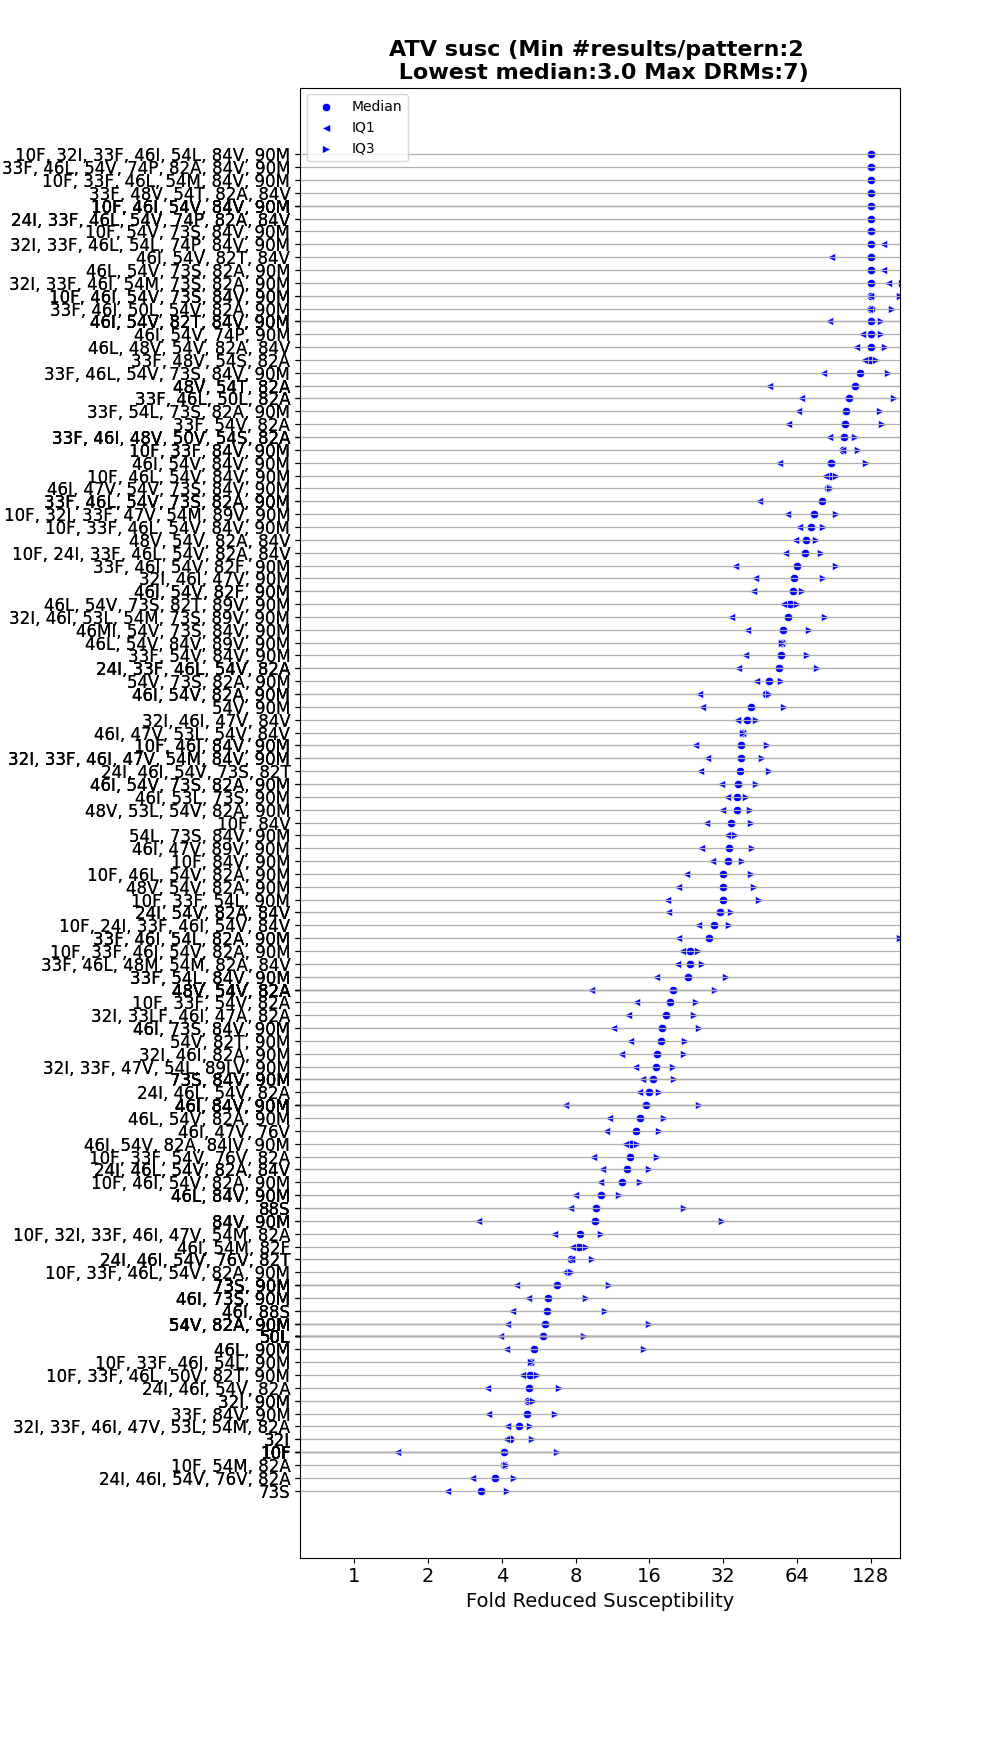
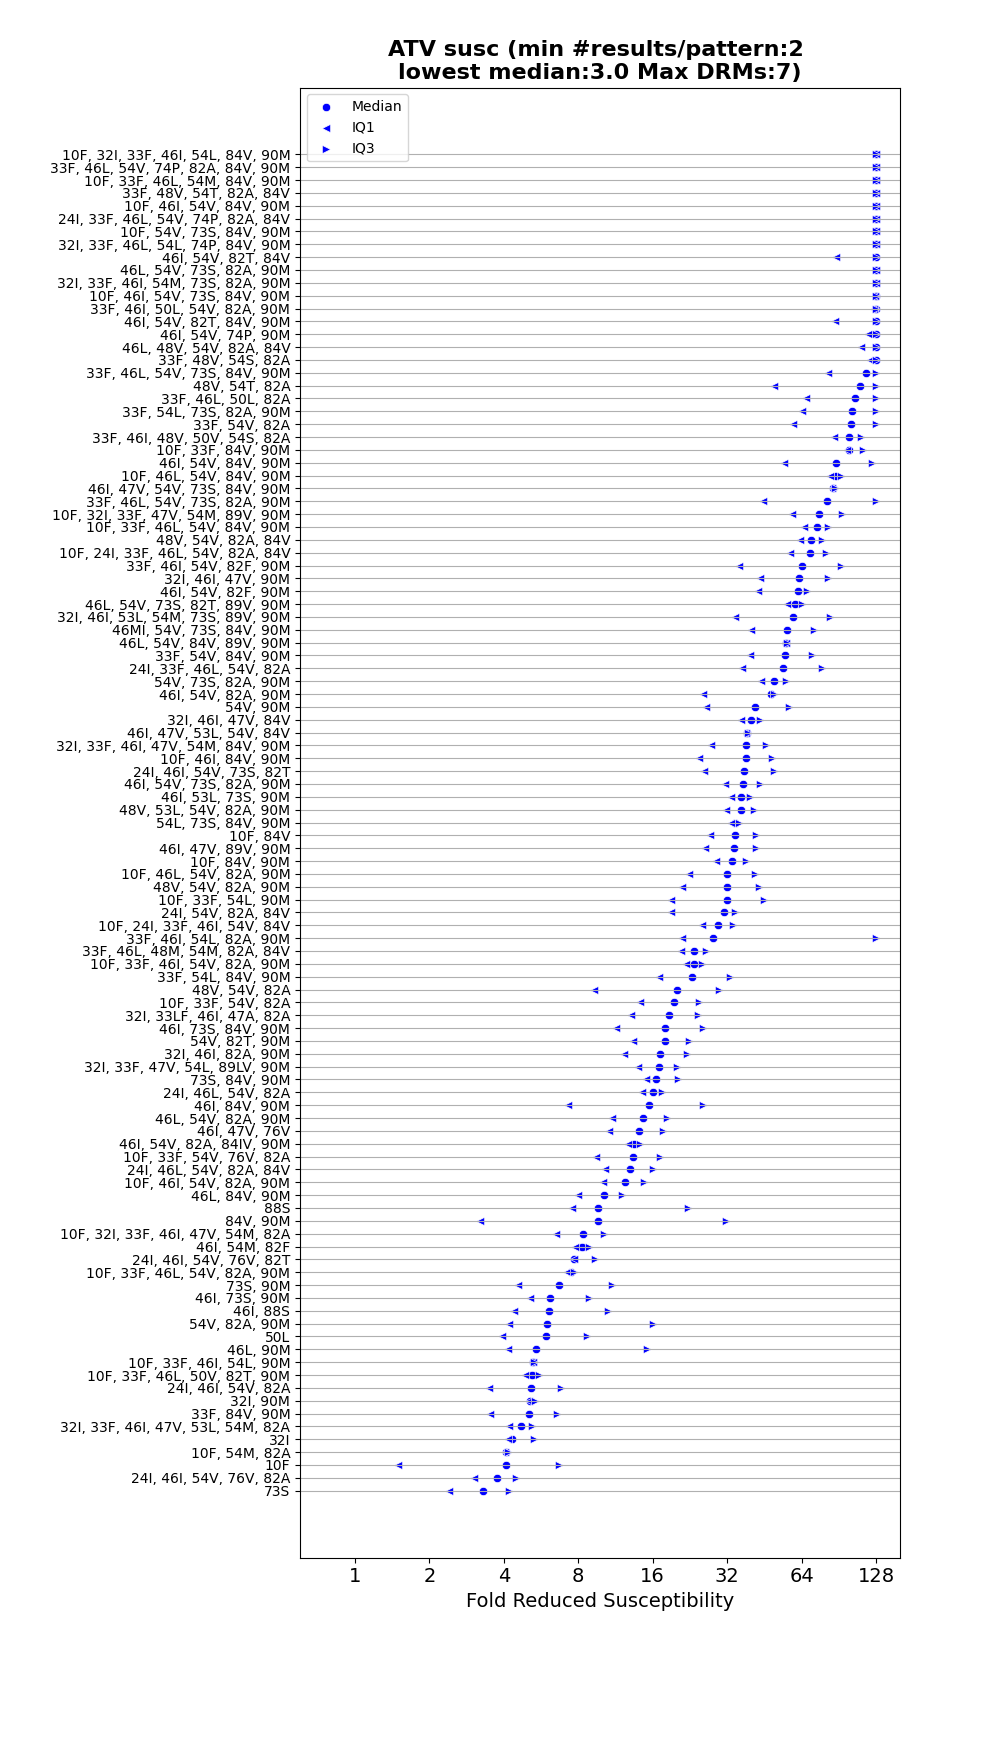
Fixed Plot Phenotypes Function
Fixed Plot Phenotypes Function

diff --git a/Phenotype_analyses.py b/Phenotype_analyses.py
@@ -88,7 +88,7 @@ for drug in drug_class_drugs[drug_class]:
         Count=('DRMsToShow', 'size'),  # Count the occurrences of each DRM pattern
         Folds=('Fold', list)  # Collect all phenotype values in a list for each DRM pattern
     ).reset_index()
-    print("\n\n", drm_group)
+    #print("\n\n", drm_group)
 
     # Convert the aggregated DataFrame to the desired dictionary format
     drm_patterns = drm_group.set_index('DRMsToShow').T.to_dict('list')
@@ -98,7 +98,7 @@ for drug in drug_class_drugs[drug_class]:
     drm_patterns_df = pd.DataFrame.from_dict(drm_patterns, orient='index', 
                                     columns=['Count', 'Folds']).reset_index()
     drm_patterns_df.rename(columns={'index': 'DRMsToShow'}, inplace=True)
-    print("\n\n", drm_patterns_df)
+    #print("\n\n", drm_patterns_df)
 
     # Calculate the necessary statistics
     drm_patterns_df['Median'] = drm_patterns_df['Folds'].apply(np.median)
@@ -110,78 +110,18 @@ for drug in drug_class_drugs[drug_class]:
     drm_patterns_df['NumDRMs'] = drm_patterns_df['DRMsToShow'].apply(lambda x: len(x.split(', ')))
     drm_patterns_df = drm_patterns_df[['DRMsToShow', 'Count', 'NumDRMs', 'StringFolds', 'Median',
                                        'Min', 'Max', 'Q1', 'Q3']]
-    print("\n\n", drm_patterns_df)
+    
 
     # Sort by 'median_fold' in descending order
     drm_patterns_df.sort_values(by='Median', ascending=False, inplace=True)
-
+    #print("\n\n", drm_patterns_df)
     # Convert DataFrame to the list of tuples if needed for the plot_phenotypes function
-    drm_patterns_table_by_fold = [tuple(x) for x in drm_patterns_df.to_numpy()]
-
-# for drug in drug_class_drugs[drug_class]:
-#     phenotypes = []
-#     drm_pattern_counts = {}
-#     drm_pattern_Folds = {}
-#     drm_patterns = {}
-#     num_isolates = 0
-#     with open(csv_file, mode='r', encoding='utf-8-sig') as file:      
-#         reader = csv.DictReader(file)
-#         selected_data = [] 
-#         for row in reader:
-#             selected_row = {column: row[column] for column in columns_to_read}
-#             #print("selected_row", selected_row)
-#             selected_data.append(selected_row) 
-#             if drug_class == "PI":
-#                 all_drms = combine_drms_from_two_columns(selected_row["PIMajorDRMs"], 
-#                                                          selected_row["PIMinorDRMs"])
-#             elif drug_class == "INSTI":
-#                 all_drms = combine_drms_from_two_columns(selected_row["INIMajorDRMs"], 
-#                                                          selected_row["INIMinorDRMs"])
-#             else:
-#                 all_drms = selected_row[drm_column]
-#             all_drms = sort_mutlist_bypos(all_drms)       
-#             if selected_row["Method"] != "PhenoSense" or selected_row[drug] == "" or all_drms == "":
-#                 continue          
-#             filtered_drms = filter_drms(all_drms, drms_to_show[drug_class])         
-#             phenotype = float(selected_row[drug].replace(",", ""))
-#             num_drms = len(filtered_drms.split(', '))
-#             num_mixtures = count_mixtures(filtered_drms)            
-#             if (num_mixtures/num_drms) > pcnt_mix_disqualified:
-#                 continue
-#             num_isolates +=1    
-#             phenotypes.append([filtered_drms, drug, phenotype])     
-#         #for item in phenotypes:
-#         #    print(item)
-          
-    # for (filtered_drms, drug, fold) in phenotypes:
-    #     if filtered_drms in drm_patterns:
-    #         drm_patterns[filtered_drms]["count"] +=1
-    #         drm_patterns[filtered_drms]["fold"].append(fold)
-    #     else:
-    #         drm_patterns[filtered_drms] = {"count": 1, "fold": [fold]}            
-
-    # drms_phenotype_table = []       
-    # for filtered_drms in drm_patterns.keys():
-    #     count = drm_patterns[filtered_drms]["count"]
-    #     num_drms = len(filtered_drms.split(', '))
-    #     median_fold = statistics.median(drm_patterns[filtered_drms]["fold"])
-    #     min_fold = min(drm_patterns[filtered_drms]["fold"])
-    #     max_fold = max(drm_patterns[filtered_drms]["fold"])
-    #     q1 = np.percentile(drm_patterns[filtered_drms]["fold"],25)
-    #     q3 = np.percentile(drm_patterns[filtered_drms]["fold"],75)
-    #     string_Folds = str(drm_patterns[filtered_drms]["fold"])
-    #     string_folds = string_folds[1:-1]
-    #     #print(type(string_folds), "  ", string_folds)
-    #     drms_data = (filtered_drms, count, num_drms, string_folds, median_fold, min_fold, max_fold, q1, q3)
-    #     drms_phenotype_table.append(drms_data)
     
-    # num_patterns = len(drms_phenotype_table)
-    # sorted_drms_table_by_count = sorted(drms_phenotype_table, key=lambda x:x[1], reverse=True)
-    # sorted_drms_table_by_fold = sorted(drms_phenotype_table, key=lambda x:x[4], reverse=True)
-    # #for item in sorted_drms_table_by_fold:
-    # #    print(item)
-
-    # plot_phenotypes(drug, sorted_drms_table_by_fold)
+    drm_patterns_table_by_fold = [tuple(x) for x in drm_patterns_df.to_numpy()]
+    #for item in drm_patterns_table_by_fold:
+    #    print(item)
+    
+    plot_phenotypes(drug, drm_patterns_table_by_fold)
 
     # file_name = drug + "_drm_patterns.csv"
     # with open(file_name, 'w', newline='', encoding='utf-8') as file:

diff --git a/DRMs.py b/DRMs.py
@@ -239,76 +239,42 @@ def remove_cons_from_mutlist(mut_list):
     return ', '.join(drms_wout_cons)
 
 
-def plot_phenotypes(drug, phenotype_data, min_count=2, max_drms=7, \
+def plot_phenotypes(drug, phenotype_data, min_count=2, max_drms=7, 
                     min_median=3.0, xlim = 0.5):
     df = pd.DataFrame(phenotype_data, columns = ['Pattern', 'Count', 'NumDRMs', 'Folds', 'Median', \
                                                   'Min', 'Max', 'Q1', 'Q3'])
-    df = df[df['Pattern'] != ""]
     df['Pattern'] = df['Pattern'].apply(remove_cons_from_mutlist)
     df = df[df['Count'] >= min_count]
     df = df[df['Median'] >= min_median]
     df = df[df['NumDRMs'] <= max_drms]
-    df['Rank'] =df['Median'].rank(ascending=False, method='first')
+    df['Rank'] =df['Median'].rank(ascending=True, method='first')
     num_rows = len(df)
-    #print(df)
-    rows_to_add = []
-    for index, row in df.iterrows():
-        rank = row['Rank']
-        pattern = row['Pattern']
-        string_list_folds = row['Folds']
-        median = row['Median']
-        q1 = row["Q1"]
-        q3 = row["Q3"]
-        actual_list_folds = ast.literal_eval(string_list_folds)
-        if not is_iterable(actual_list_folds):
-            actual_list_folds = [actual_list_folds]
-        for fold in actual_list_folds:
-            if fold <xlim:
-                fold = xlim
-            if fold >128:
-                fold=128
-            new_row = (rank, pattern, fold)
-            rows_to_add.append(new_row)
 
-    df_for_plot = pd.DataFrame(rows_to_add)
-    print(df_for_plot)
-    column_names = ('Rank', 'Pattern', 'Fold')
-    df_for_plot.columns = column_names
-    plt.figure(figsize=(10, num_rows/6))
-    plt.subplots_adjust(top=0.95)
-    plt.subplots_adjust(left=0.3)
-    sns.scatterplot(data=df_for_plot, x='Fold', y='Rank', color="white")
+    medians_df = df[['Pattern', 'Count', 'Rank', 'Median']] 
+    q1_df = df[['Pattern', 'Count', 'Rank', 'Q1']] 
+    q3_df = df[['Pattern', 'Count', 'Rank', 'Q3']] 
+    medians_df.loc[medians_df["Median"] > 128, "Median"] = 128
+    q1_df.loc[q1_df["Q1"] > 128, "Q1"] = 128
+    q3_df.loc[q3_df["Q3"] > 128, "Q3"] = 128
+    title = f"{drug} susc (min #results/pattern:{min_count} \n" + \
+            f"lowest median:{min_median} Max DRMs:{max_drms})"
     x_tick_positions = [1, 2, 4, 8, 16, 32, 64, 128]
     x_tick_labels = ["1", "2", "4", "8", "16", "32", "64", "128"]
-    ylim = plt.ylim()
-    plt.ylim(ylim[::-1])
-    plt.yticks(fontsize=8)
+    plt.figure(figsize=(10, num_rows/6))
+    plt.title(title, fontsize=16, fontweight='bold') 
+    sns.scatterplot(data=medians_df, x='Median', y='Rank', color="blue", label="Median")
+    sns.scatterplot(data=q1_df, x='Q1', y='Rank', color="blue", marker="<", label="IQ1" )
+    sns.scatterplot(data=q3_df, x='Q3', y='Rank', color='blue', marker=">", label="IQ3")
+    plt.subplots_adjust(top=0.95)
+    plt.subplots_adjust(left=0.3)
     plt.ylabel('')
-    plt.yticks(ticks=df_for_plot['Rank'], labels=df_for_plot['Pattern'])
+    plt.yticks(ticks=medians_df['Rank'], labels=medians_df['Pattern'])
+    plt.yticks(fontsize=10)
     plt.grid(axis='y')
     plt.xscale('log', base=2)
-    plt.xlim(left=0.6)
+    plt.xlabel('Fold Reduced Susceptibility', fontsize=14)
     plt.xticks(ticks=x_tick_positions, labels=x_tick_labels)
     plt.xticks(fontsize=14)
-    plt.yticks(fontsize=12)
-    #plt.show()
-    #plt.savefig(drug+".phenotypes.png")
-
-    df_medians = df[['Pattern', 'Count', 'Rank', 'Median']] 
-    df_q1 = df[['Pattern', 'Count', 'Rank', 'Q1']] 
-    df_q3 = df[['Pattern', 'Count', 'Rank', 'Q3']] 
-    df_medians.loc[df_medians["Median"] > 128, "Median"] = 128
-    plt.subplots_adjust(top=0.95)
-    title = f"{drug} susc (Min #results/pattern:{min_count} \n" + \
-            f" Lowest median:{min_median} Max DRMs:{max_drms})"
-    plt.title(title, fontsize=16, fontweight='bold') 
-    plt.subplots_adjust(left=0.3)
-    sns.scatterplot(data=df_medians, x='Median', y='Rank', color="blue", label="Median")
-    sns.scatterplot(data=df_q1, x='Q1', y='Rank', color="blue", marker="<", label="IQ1" )
-    sns.scatterplot(data=df_q3, x='Q3', y='Rank', color='blue', marker=">", label="IQ3")
-    plt.ylabel('')
-    plt.xlabel('Fold Reduced Susceptibility', fontsize=14)
-    plt.xticks(fontsize=14)
-    plt.yticks(fontsize=12)
+    plt.xlim(left=0.6)
     #plt.show()
     plt.savefig(drug+".phenotypes_medians.png")
